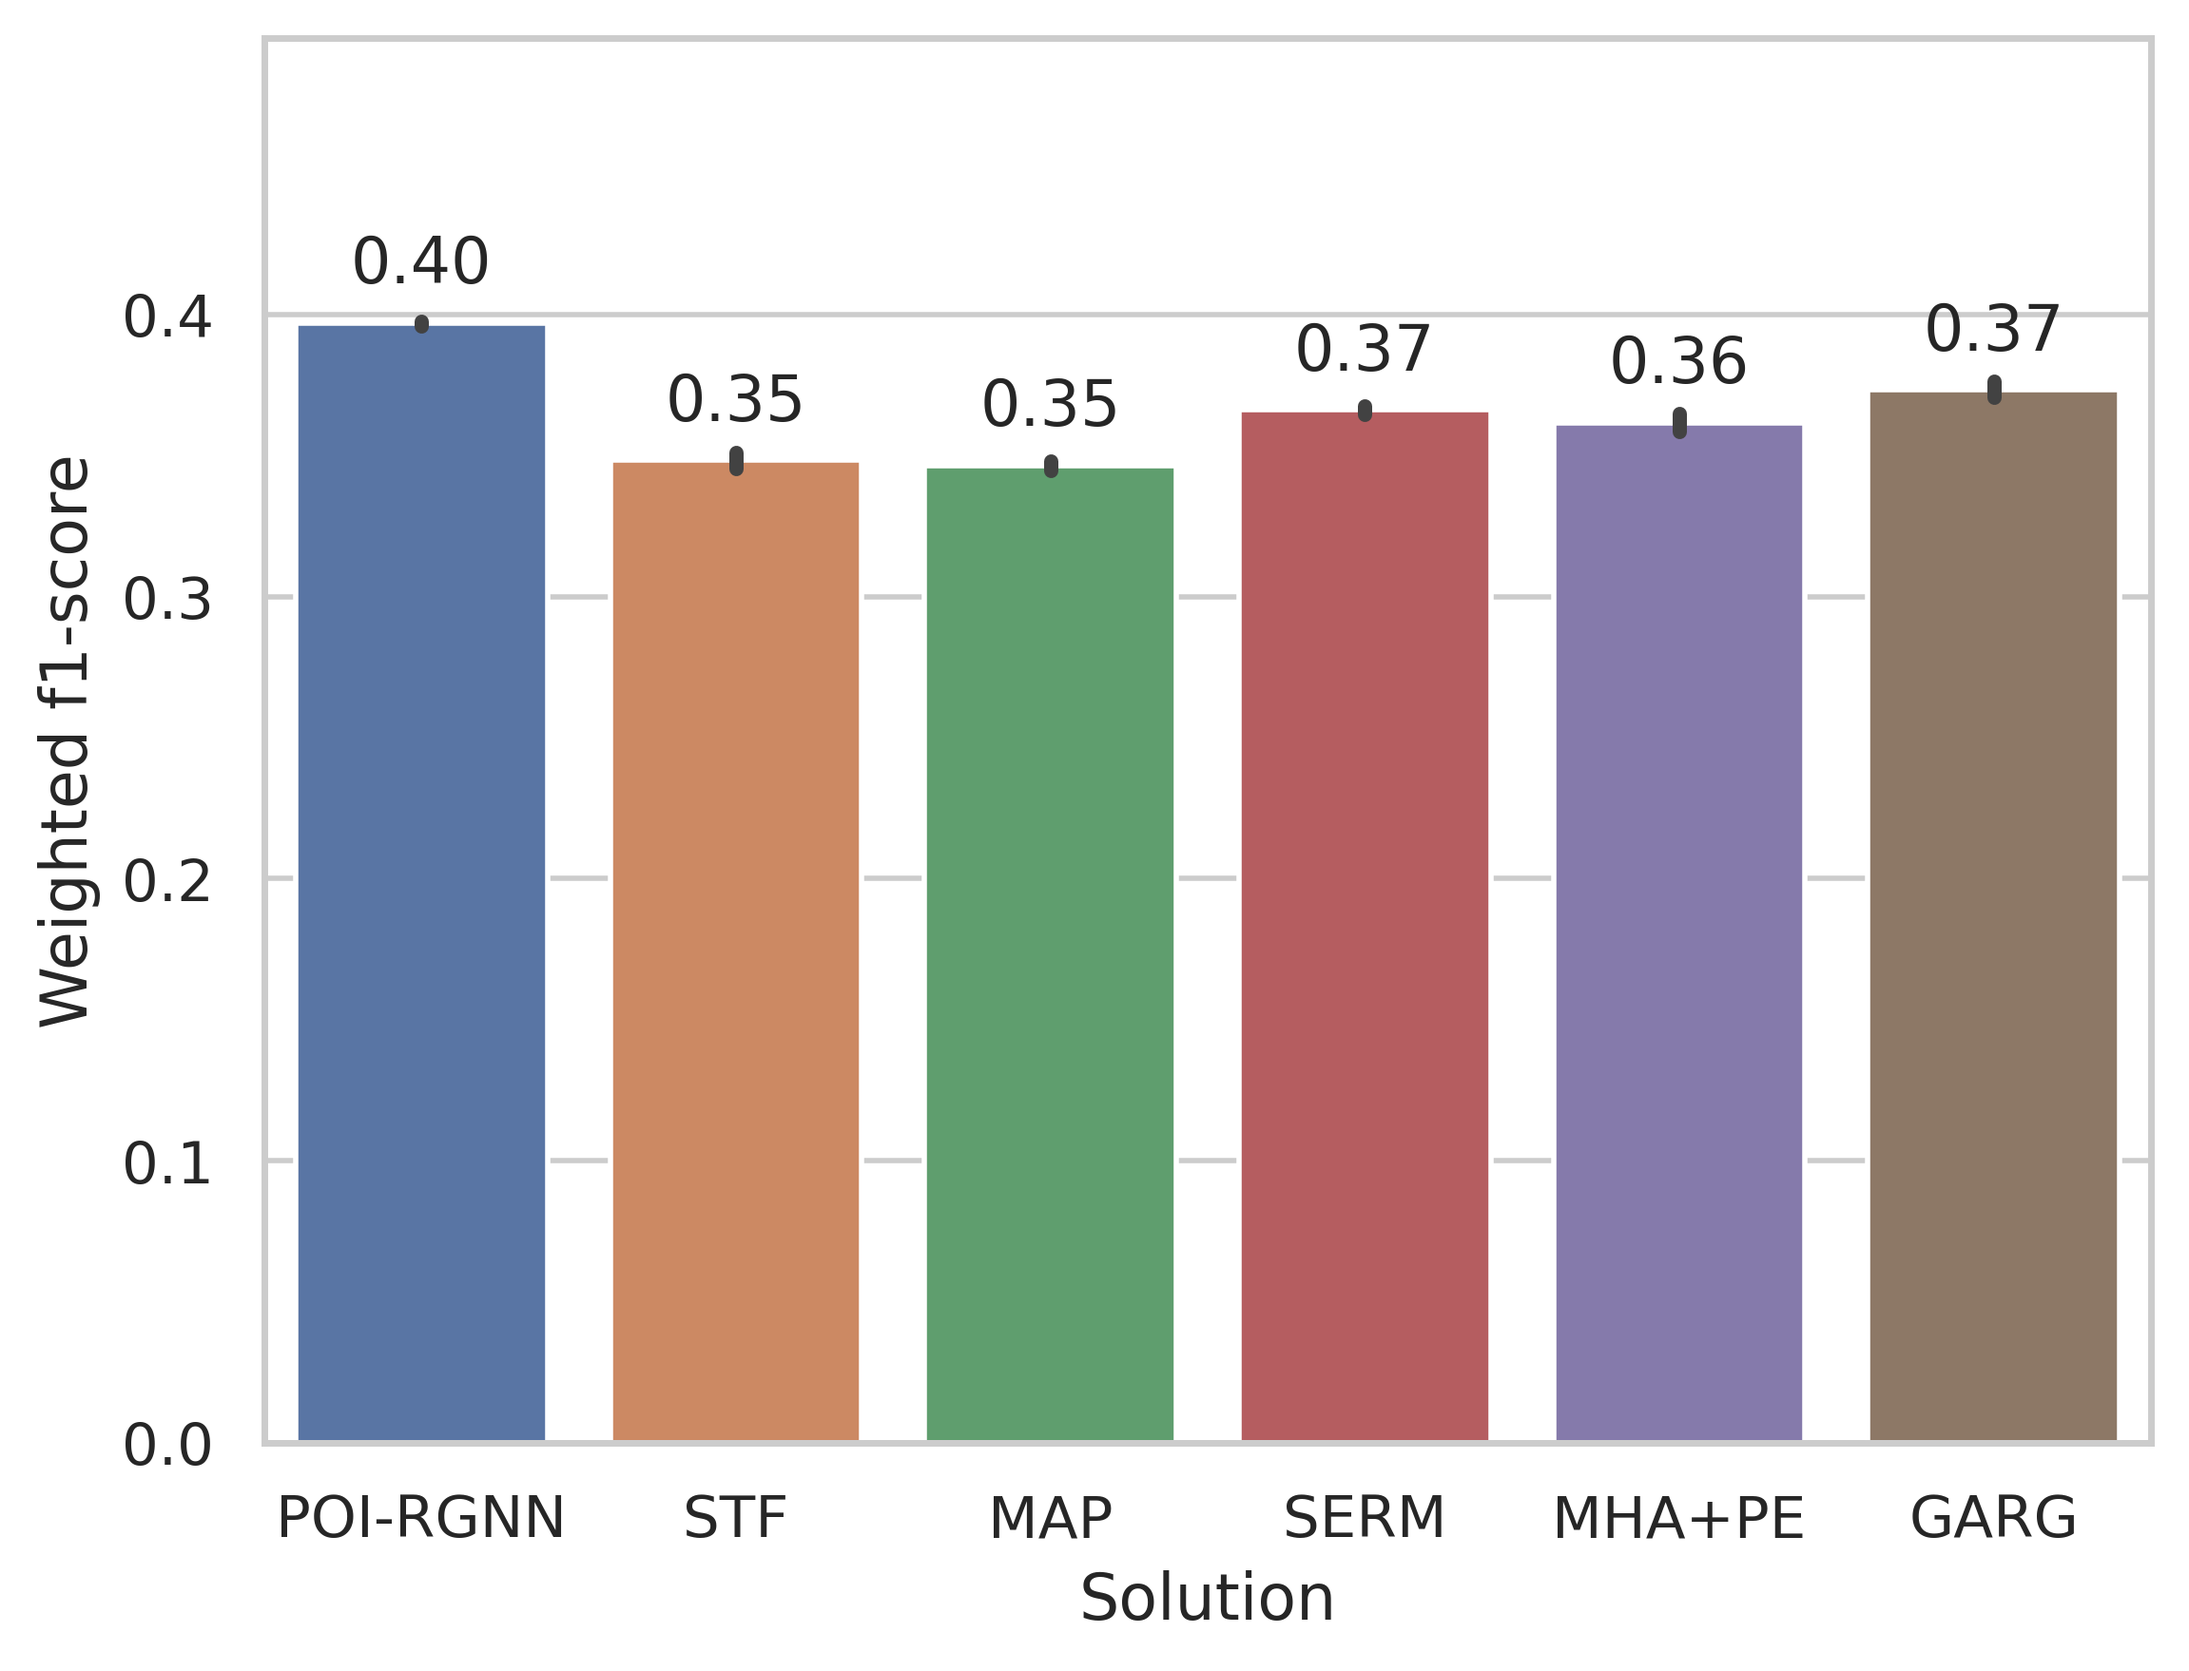
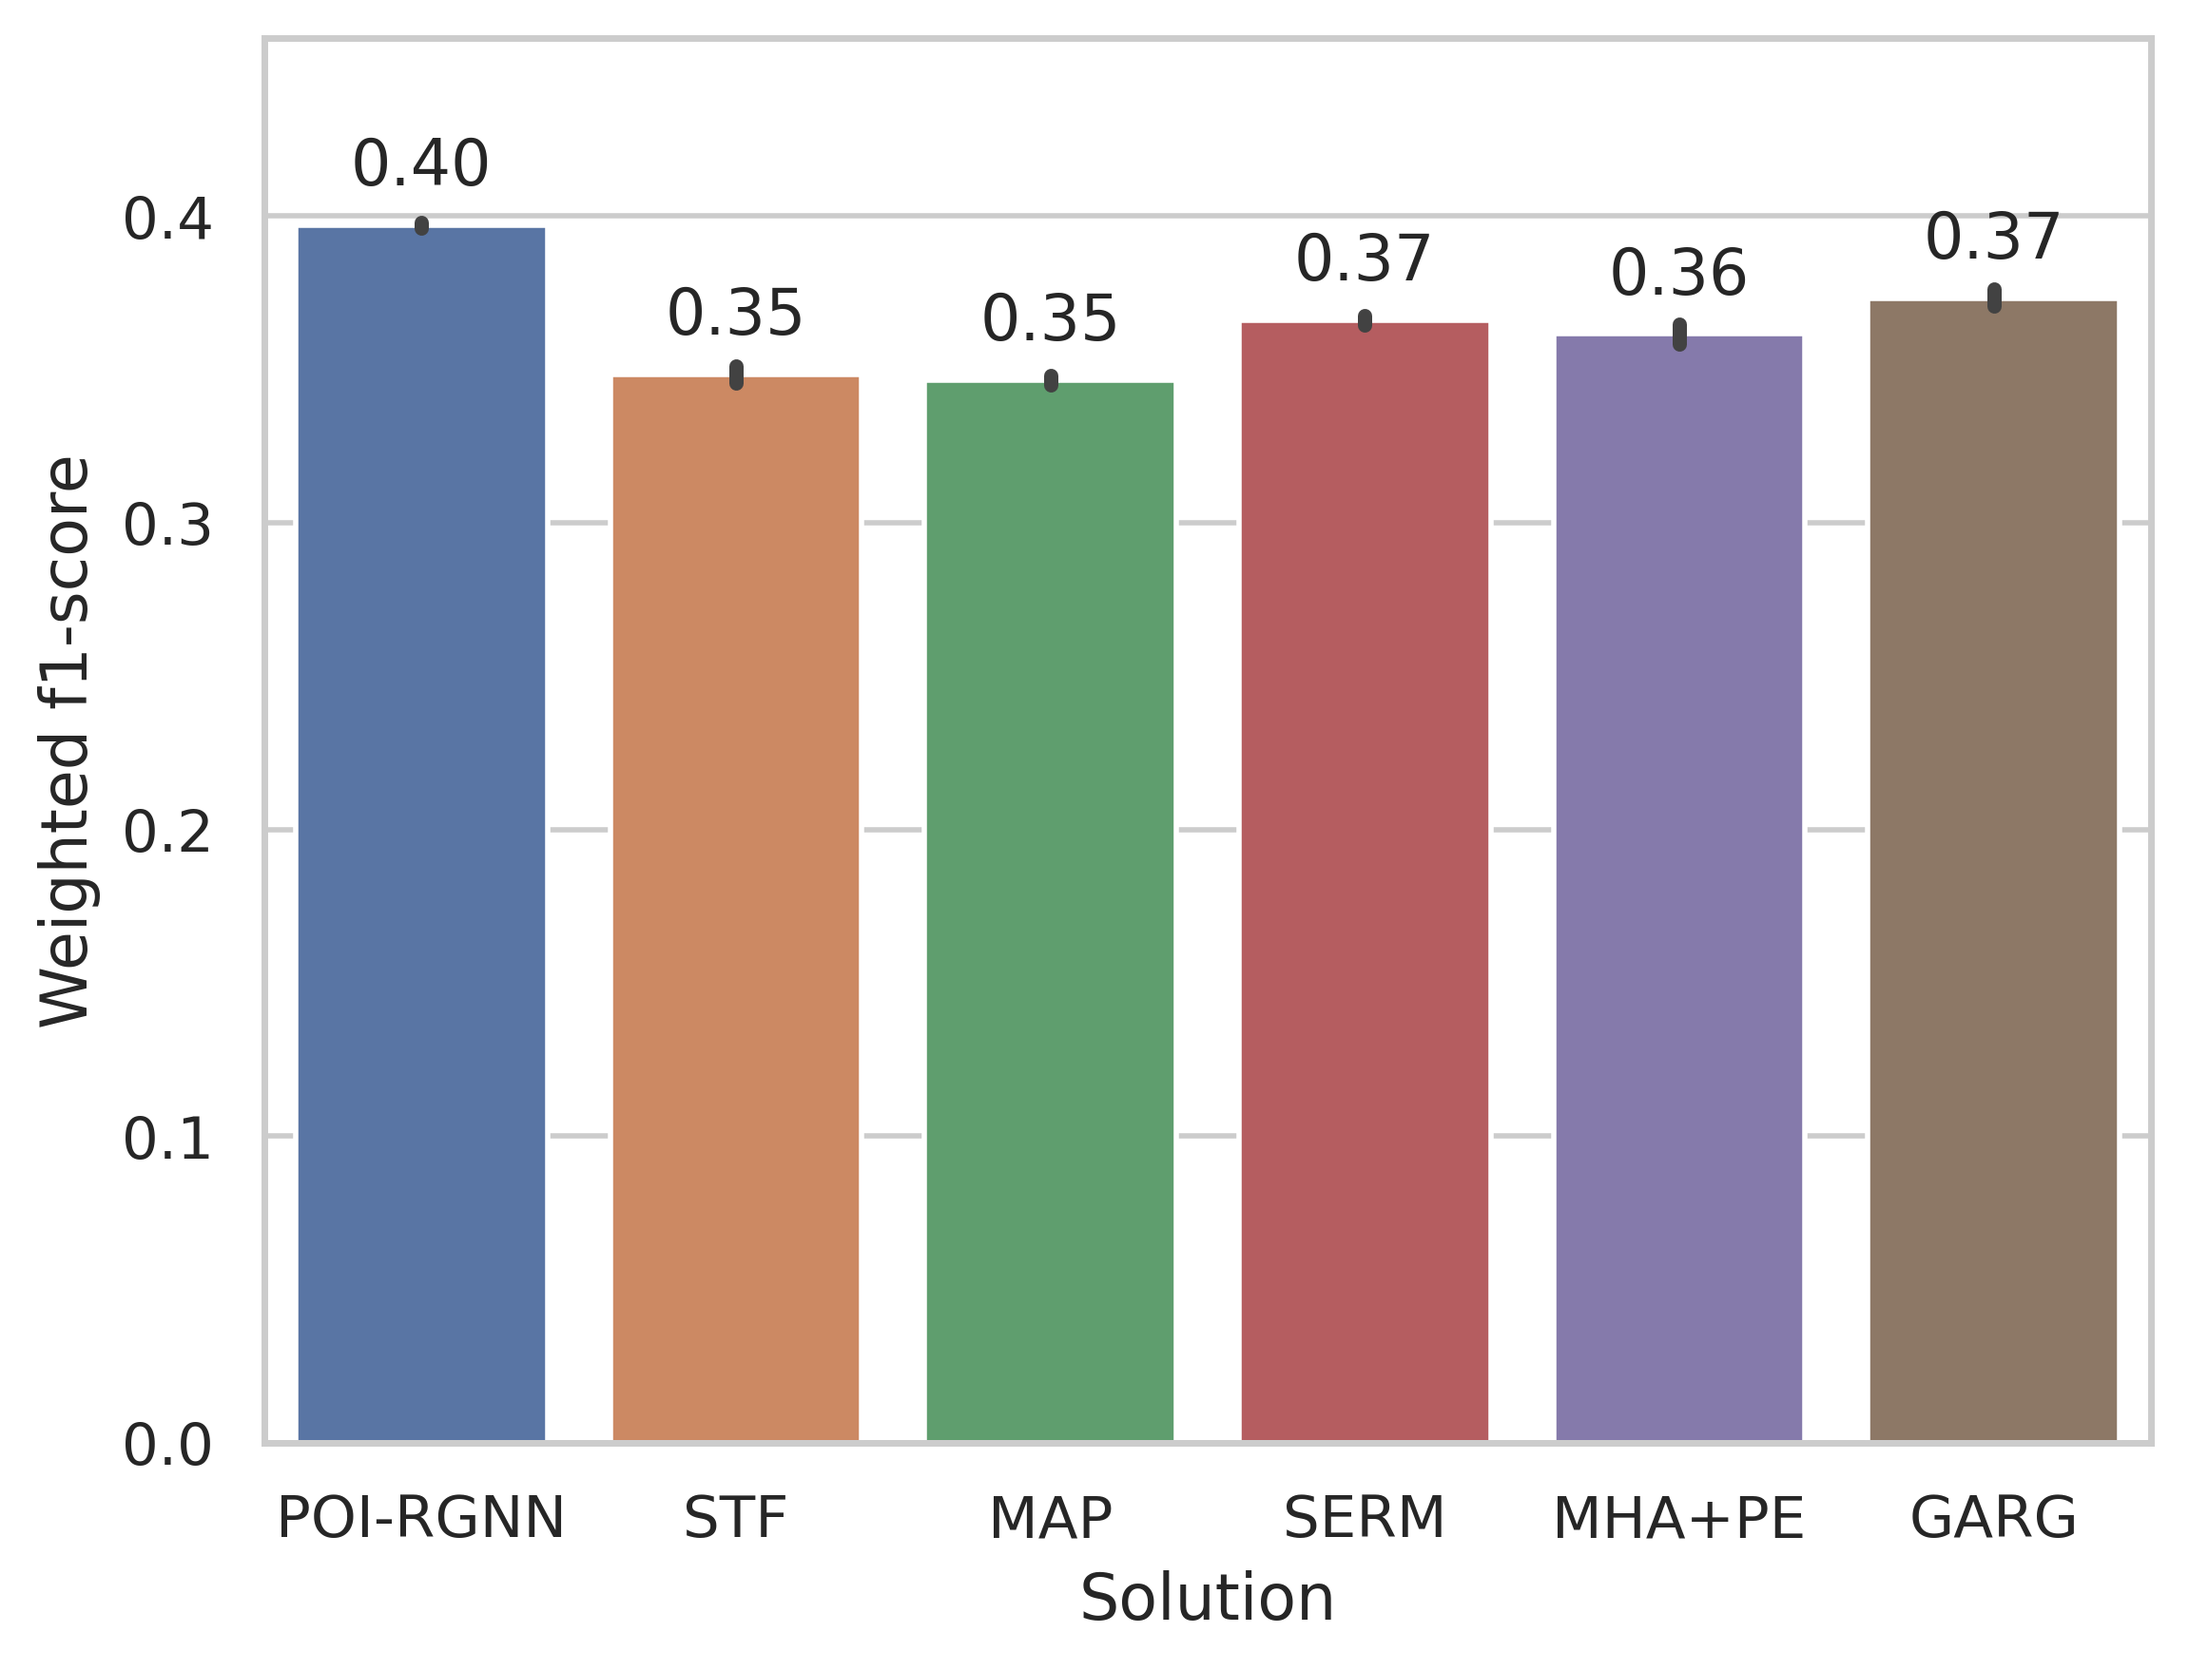
Gráficos de categorias melhorados

diff --git a/loader/performance_plots_loader.py b/loader/performance_plots_loader.py
@@ -18,6 +18,8 @@ class PerformancePlotsLoader:
         self.file_extractor = FileExtractor()
         self.columns = {'users_steps': ['Home', 'Work', 'Other', 'Commuting', 'Amenity', 'Leisure', 'Shop', 'Tourism'],
                         'gowalla': ['Shopping', 'Community', 'Food', 'Entertainment', 'Travel', 'Outdoors', 'Nightlife']}
+        self.y_limits = {'users_steps': {'Accuracy': 0.68, 'Macro f1-score': 0.33, 'Weighted f1-score': 0.6},
+                         'gowalla': {'Accuracy': 0.48, 'Macro f1-score': 0.4, 'Weighted f1-score': 0.46}}
 
     def _convert_names(self, names):
 
@@ -29,7 +31,7 @@ class PerformancePlotsLoader:
 
         return names
 
-    def plot_general_metrics(self, report, columns, base_dir):
+    def plot_general_metrics(self, report, columns, base_dir, dataset):
 
         sns.set_theme('whitegrid')
         macro_fscore_list = []
@@ -79,7 +81,7 @@ class PerformancePlotsLoader:
         #     filename = folds_replications_filename + '_barplot_' + columns[i] + "_fscore"
         #     self.barplot(metrics, 'Method', columns[i], base_dir, filename, title)
 
-    def plot_general_metrics_with_confidential_interval(self, report, columns, base_dir):
+    def plot_general_metrics_with_confidential_interval(self, report, columns, base_dir, dataset):
 
         sns.set_theme(style='whitegrid')
         macro_fscore_list = []
@@ -109,15 +111,15 @@ class PerformancePlotsLoader:
         print(metrics)
         title = ''
         filename = 'barplot_accuracy_ci'
-        self.barplot_with_values(metrics, 'Solution', 'Accuracy', base_dir, filename, title)
+        self.barplot_with_values(metrics, 'Solution', 'Accuracy', base_dir, filename, title, dataset)
 
         #title = 'Macro average fscore'
         filename = 'barplot_macro_avg_fscore_ci'
-        self.barplot_with_values(metrics, 'Solution', 'Macro f1-score', base_dir, filename, title)
+        self.barplot_with_values(metrics, 'Solution', 'Macro f1-score', base_dir, filename, title, dataset)
 
         #title = 'Weighted average fscore'
         filename = 'barplot_weighted_avg_fscore_ci'
-        self.barplot_with_values(metrics, 'Solution', 'Weighted f1-score', base_dir, filename, title)
+        self.barplot_with_values(metrics, 'Solution', 'Weighted f1-score', base_dir, filename, title, dataset)
 
         # columns = list(metrics.columns)
         # print("antigas: ", columns)
@@ -138,7 +140,7 @@ class PerformancePlotsLoader:
         figure = figure.get_figure()
         figure.savefig(base_dir + file_name + ".png", bbox_inches='tight', dpi=400)
 
-    def barplot_with_values(self, metrics, x_column, y_column, base_dir, file_name, title):
+    def barplot_with_values(self, metrics, x_column, y_column, base_dir, file_name, title, dataset):
         Path(base_dir).mkdir(parents=True, exist_ok=True)
         plt.figure()
         # if y_column == 'Macro f1-score':
@@ -171,7 +173,7 @@ class PerformancePlotsLoader:
         # plt.legend(bbox_to_anchor=(0.65, 0.74),
         #            borderaxespad=0)
         maximum_value = metrics[y_column].max()
-        plt.ylim(0, maximum_value + 0.1)
+        plt.ylim(0, maximum_value + 0.06)
         # ax.yticks(labels=[df['Precision'].tolist()])
         figure.savefig(base_dir + file_name + ".png", bbox_inches='tight', dpi=400)
         plt.figure()
@@ -263,5 +265,5 @@ class PerformancePlotsLoader:
         latex = df.to_latex().replace("\}", "}").replace("\{", "{").replace("\\\nRecall", "\\\n\hline\nRecall").replace("\\\nF-score", "\\\n\hline\nF-score")
         pd.DataFrame({'latex': [latex]}).to_csv(output + "latex.txt", header=False, index=False)
 
-        self.plot_general_metrics_with_confidential_interval(model_report, columns, output+dataset_name)
+        self.plot_general_metrics_with_confidential_interval(model_report, columns, output+dataset_name, dataset_name)
 

diff --git a/preprocessing/gowalla/data_analysis/us/categories_plot.py b/preprocessing/gowalla/data_analysis/us/categories_plot.py
@@ -2,6 +2,7 @@ import pandas as pd
 import matplotlib.pyplot as plt
 import seaborn as sns
 from pathlib import Path
+import numpy as np
 
 from configuration import BASE_DIR, CHECKINS, CHECKINS_LOCAL_DATETIME_COLUMNS_REDUCED_US
 sns.set_theme(style='whitegrid')
@@ -23,12 +24,47 @@ def hour_frequency_plot(hour_frequency_dict, dir, title, week):
     barplot(dir, 'Category', 'Records (%)', df, "gowalla_barplot_category_total_" + week + title,
                  "Percentage of records per category" + title)
 
+def change_width(ax, new_value) :
+    for patch in ax.patches :
+        current_width = patch.get_width()
+        diff = current_width - new_value
+
+        # we change the bar width
+        patch.set_width(new_value)
+
+        # we recenter the bar
+        patch.set_x(patch.get_x() + diff * .5)
+
+def normaliseCounts(widths,maxwidth):
+    widths = np.array(widths)/float(maxwidth)
+    return widths
+
 def barplot(dir, x, y, df, filename, title, save=True):
 
-    plt.figure()
-    fig = sns.barplot(x=y, y=x, data=df, color='cornflowerblue', order=['Food', 'Shopping', 'Community', 'Travel', 'Entertainment', 'Outdoors', 'Nightlife'])
+    sns.set(font_scale=1.6, style='whitegrid')
+
+    #plt.figure()
+    fig = plt.figure(figsize=(8, 4))
+    #ax2 = ax.twinx()
+    fig = sns.barplot(x=y, y=x, data=df, color='cornflowerblue',
+                      order=['Food', 'Shopping', 'Community', 'Travel', 'Entertainment', 'Outdoors', 'Nightlife'])
+
+    # widthbars = [1,1,1,1,1,1,1]
+    #
+    # widthbars = normaliseCounts(widthbars, 100)
+    #
+    # for bar, newwidth in zip(ax.patches, widthbars):
+    #     x = bar.get_x()
+    #     width = bar.get_height()
+    #     centre = x + width / 2.
+    #
+    #     bar.set_y(centre - newwidth / 2.)
+    #     bar.set_height(newwidth)
+    #
     fig.set_ylabel("")
+    #change_width(ax, .15)
     fig = fig.set_title(title).get_figure()
+
     #plt.xticks(rotation=35)
 
     save_fig(dir, filename, fig)

diff --git a/preprocessing/users_steps/data_analysis/categories_plot.py b/preprocessing/users_steps/data_analysis/categories_plot.py
@@ -25,7 +25,9 @@ def hour_frequency_plot(hour_frequency_dict, dir, title, week):
 
 def barplot(dir, x, y, df, filename, title, save=True):
 
-    plt.figure()
+    #plt.figure()
+    sns.set(font_scale=1.6, style='whitegrid')
+    fig = plt.figure(figsize=(8, 4))
     fig = sns.barplot(x=y, y=x, data=df, color='cornflowerblue', order=['Commuting', 'Home', 'Work', 'Other', 'Amenity', 'Leisure', 'Shop', 'Tourism'])
     fig.set_ylabel("")
     fig = fig.set_title(title).get_figure()
